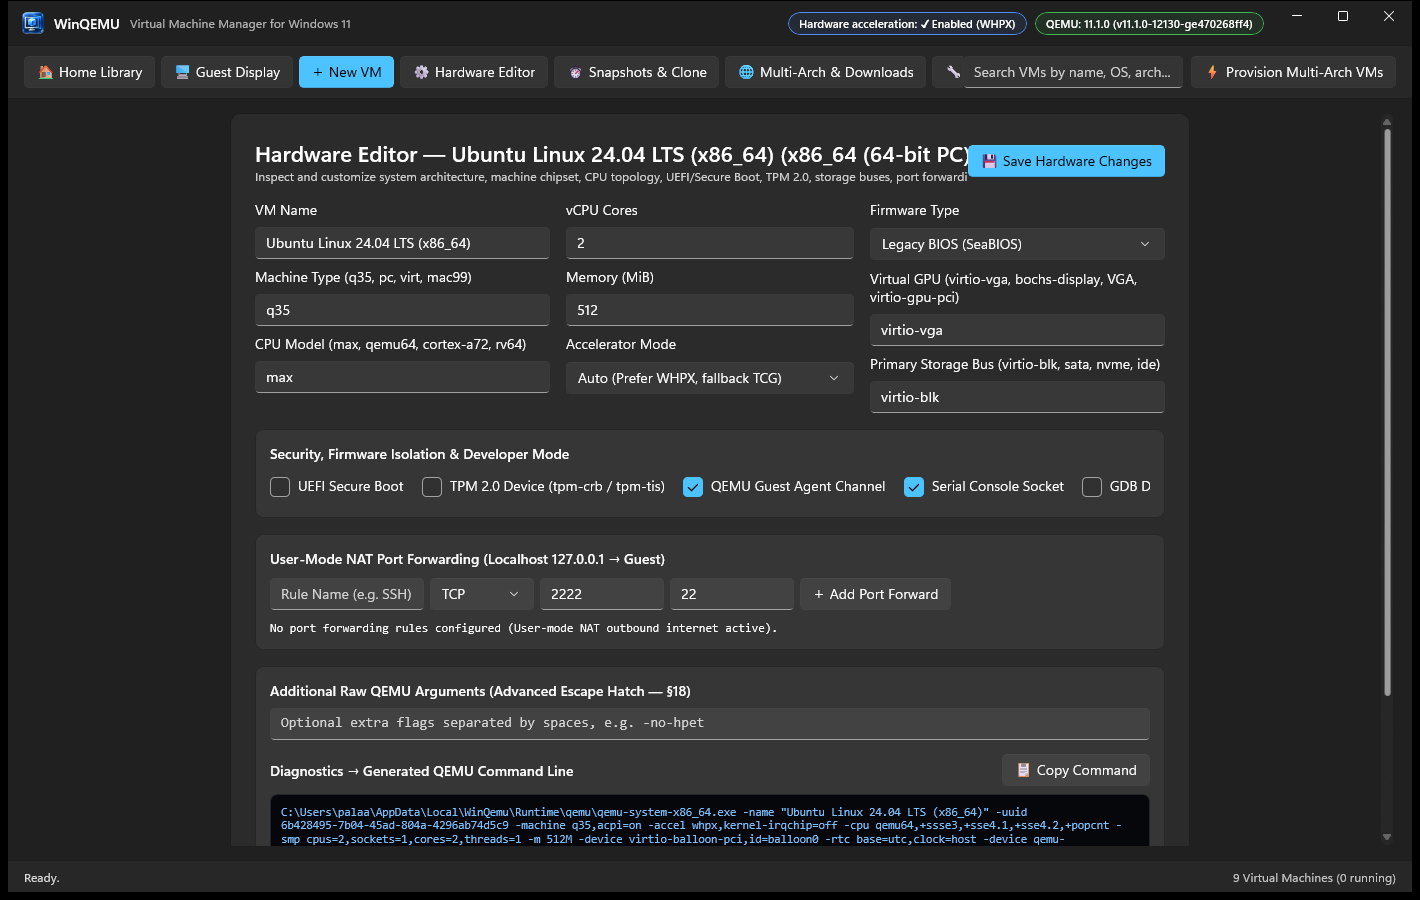
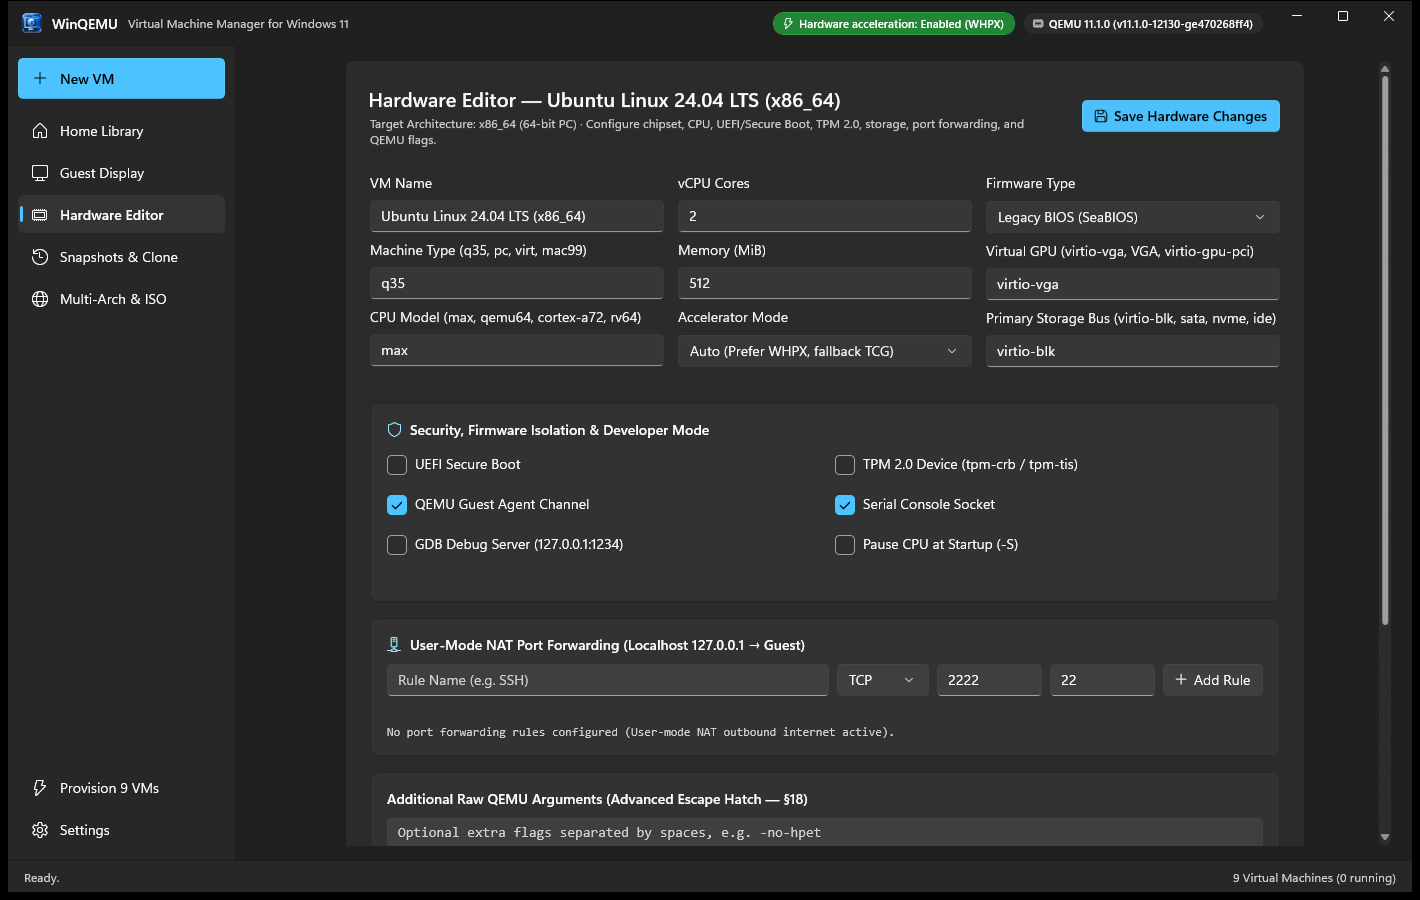
polish: finalize WHPX truthfulness, showcase ordering, QA tour auto-exit, and updated Fluent UI screenshots

diff --git a/src/App/MainWindow.xaml b/src/App/MainWindow.xaml
@@ -1007,19 +1007,19 @@
                 <ScrollViewer x:Name="WizardViewPanel" Visibility="Collapsed">
                     <Border MaxWidth="900"
                             HorizontalAlignment="Stretch"
-                            Padding="24"
+                            Padding="18"
                             CornerRadius="8"
                             Background="{ThemeResource CardBackgroundFillColorDefaultBrush}"
                             BorderBrush="{ThemeResource CardStrokeColorDefaultBrush}"
                             BorderThickness="1">
-                        <StackPanel Spacing="16">
+                        <StackPanel Spacing="10">
                             <StackPanel.ChildrenTransitions>
                                 <TransitionCollection>
                                     <EntranceThemeTransition FromVerticalOffset="10" />
                                 </TransitionCollection>
                             </StackPanel.ChildrenTransitions>
 
-                            <StackPanel Spacing="4">
+                            <StackPanel Spacing="2">
                                 <TextBlock Text="Create a Virtual Machine" Style="{StaticResource SubtitleTextBlockStyle}" />
                                 <TextBlock Text="Pick an installer ISO or choose an operating system preset across x86_64, i386, ARM64, RISC-V 64, or PowerPC 64. WinQEMU configures firmware, storage, networking, and acceleration automatically."
                                            Style="{StaticResource CaptionTextBlockStyle}"
@@ -1028,8 +1028,8 @@
                             </StackPanel>
 
                             <!-- Step 1: ISO Selection & Auto-Recognition (§13, §14) -->
-                            <Border Padding="16" CornerRadius="8" Background="{ThemeResource CardBackgroundFillColorSecondaryBrush}" BorderBrush="{ThemeResource CardStrokeColorDefaultBrush}" BorderThickness="1">
-                                <StackPanel Spacing="10">
+                            <Border Padding="12" CornerRadius="8" Background="{ThemeResource CardBackgroundFillColorSecondaryBrush}" BorderBrush="{ThemeResource CardStrokeColorDefaultBrush}" BorderThickness="1">
+                                <StackPanel Spacing="8">
                                     <StackPanel Orientation="Horizontal" Spacing="8">
                                         <FontIcon FontFamily="Segoe Fluent Icons" Glyph="&#xE958;" FontSize="15" Foreground="{ThemeResource AccentTextFillColorPrimaryBrush}" />
                                         <TextBlock Text="1. Installer Media (Optional — or boot from preset)" Style="{StaticResource BodyStrongTextBlockStyle}" />
@@ -1061,13 +1061,13 @@
                             </Border>
 
                             <!-- Step 2: Operating System & Architecture Preset (§15) -->
-                            <Border Padding="16" CornerRadius="8" Background="{ThemeResource CardBackgroundFillColorSecondaryBrush}" BorderBrush="{ThemeResource CardStrokeColorDefaultBrush}" BorderThickness="1">
-                                <StackPanel Spacing="10">
+                            <Border Padding="12" CornerRadius="8" Background="{ThemeResource CardBackgroundFillColorSecondaryBrush}" BorderBrush="{ThemeResource CardStrokeColorDefaultBrush}" BorderThickness="1">
+                                <StackPanel Spacing="8">
                                     <StackPanel Orientation="Horizontal" Spacing="8">
                                         <FontIcon FontFamily="Segoe Fluent Icons" Glyph="&#xE770;" FontSize="15" Foreground="{ThemeResource AccentTextFillColorPrimaryBrush}" />
                                         <TextBlock Text="2. Operating System &amp; Architecture Preset" Style="{StaticResource BodyStrongTextBlockStyle}" />
                                     </StackPanel>
-                                    <Grid x:Name="WizardPresetNameGrid" ColumnSpacing="14" RowSpacing="10">
+                                    <Grid x:Name="WizardPresetNameGrid" ColumnSpacing="14" RowSpacing="8">
                                         <Grid.ColumnDefinitions>
                                             <ColumnDefinition Width="*" />
                                             <ColumnDefinition Width="*" />
@@ -1104,13 +1104,13 @@
                             </Border>
 
                             <!-- Step 3: Recommended Resources (§16) -->
-                            <Border Padding="16" CornerRadius="8" Background="{ThemeResource CardBackgroundFillColorSecondaryBrush}" BorderBrush="{ThemeResource CardStrokeColorDefaultBrush}" BorderThickness="1">
-                                <StackPanel Spacing="12">
+                            <Border Padding="12" CornerRadius="8" Background="{ThemeResource CardBackgroundFillColorSecondaryBrush}" BorderBrush="{ThemeResource CardStrokeColorDefaultBrush}" BorderThickness="1">
+                                <StackPanel Spacing="8">
                                     <StackPanel Orientation="Horizontal" Spacing="8">
                                         <FontIcon FontFamily="Segoe Fluent Icons" Glyph="&#xE964;" FontSize="15" Foreground="{ThemeResource AccentTextFillColorPrimaryBrush}" />
                                         <TextBlock Text="3. Hardware Resources (Memory, CPU, Disk Size)" Style="{StaticResource BodyStrongTextBlockStyle}" />
                                     </StackPanel>
-                                    <Grid x:Name="WizardResourcesGrid" ColumnSpacing="14" RowSpacing="10">
+                                    <Grid x:Name="WizardResourcesGrid" ColumnSpacing="14" RowSpacing="8">
                                         <Grid.ColumnDefinitions>
                                             <ColumnDefinition Width="*" />
                                             <ColumnDefinition Width="*" />
@@ -1121,15 +1121,15 @@
                                             <RowDefinition Height="Auto" />
                                             <RowDefinition Height="Auto" />
                                         </Grid.RowDefinitions>
-                                        <StackPanel x:Name="WizardRamField" Grid.Row="0" Grid.Column="0" Spacing="4">
+                                        <StackPanel x:Name="WizardRamField" Grid.Row="0" Grid.Column="0" Spacing="2">
                                             <TextBlock x:Name="WizardRamLabel" Text="Memory (MiB) — Recommended: 4096 MiB" Style="{StaticResource CaptionTextBlockStyle}" />
                                             <Slider x:Name="WizardRamSlider" Minimum="256" Maximum="16384" StepFrequency="256" Value="4096" ValueChanged="OnWizardResourceSliderChanged" AutomationProperties.AutomationId="WizardRamSlider" AutomationProperties.Name="Memory Allocation MiB" />
                                         </StackPanel>
-                                        <StackPanel x:Name="WizardCpuField" Grid.Row="0" Grid.Column="1" Spacing="4">
+                                        <StackPanel x:Name="WizardCpuField" Grid.Row="0" Grid.Column="1" Spacing="2">
                                             <TextBlock x:Name="WizardCpuLabel" Text="Virtual CPUs — Recommended: 4" Style="{StaticResource CaptionTextBlockStyle}" />
                                             <Slider x:Name="WizardCpuSlider" Minimum="1" Maximum="16" StepFrequency="1" Value="4" ValueChanged="OnWizardResourceSliderChanged" AutomationProperties.AutomationId="WizardCpuSlider" AutomationProperties.Name="Virtual CPU Cores" />
                                         </StackPanel>
-                                        <StackPanel x:Name="WizardDiskField" Grid.Row="0" Grid.Column="2" Spacing="4">
+                                        <StackPanel x:Name="WizardDiskField" Grid.Row="0" Grid.Column="2" Spacing="2">
                                             <TextBlock x:Name="WizardDiskLabel" Text="Virtual Disk (GiB) — Recommended: 32 GiB" Style="{StaticResource CaptionTextBlockStyle}" />
                                             <Slider x:Name="WizardDiskSlider" Minimum="4" Maximum="256" StepFrequency="4" Value="32" ValueChanged="OnWizardResourceSliderChanged" AutomationProperties.AutomationId="WizardDiskSlider" AutomationProperties.Name="Disk Size GiB" />
                                         </StackPanel>
@@ -1139,12 +1139,12 @@
                             </Border>
 
                             <!-- Step 4: Express Unattended Installation (§37) -->
-                            <Border Padding="16" CornerRadius="8" Background="{ThemeResource CardBackgroundFillColorSecondaryBrush}" BorderBrush="{ThemeResource CardStrokeColorDefaultBrush}" BorderThickness="1">
-                                <StackPanel Spacing="10">
+                            <Border Padding="12" CornerRadius="8" Background="{ThemeResource CardBackgroundFillColorSecondaryBrush}" BorderBrush="{ThemeResource CardStrokeColorDefaultBrush}" BorderThickness="1">
+                                <StackPanel Spacing="8">
                                     <CheckBox x:Name="WizardExpressInstallCheck"
                                               Content="Enable Express Unattended Installation (Cloud-Init / Windows Autounattend seed ISO)"
                                               AutomationProperties.AutomationId="WizardExpressInstallCheck" />
-                                    <Grid x:Name="WizardExpressFieldsGrid" ColumnSpacing="12" RowSpacing="10">
+                                    <Grid x:Name="WizardExpressFieldsGrid" ColumnSpacing="12" RowSpacing="8">
                                         <Grid.ColumnDefinitions>
                                             <ColumnDefinition Width="*" />
                                             <ColumnDefinition Width="*" />
@@ -1768,7 +1768,7 @@
                                             <Grid.ColumnDefinitions>
                                                 <ColumnDefinition Width="Auto" />
                                                 <ColumnDefinition Width="Auto" />
-                                                <ColumnDefinition Width="*" />
+                                                <ColumnDefinition Width="Auto" />
                                             </Grid.ColumnDefinitions>
                                             <Grid.RowDefinitions>
                                                 <RowDefinition Height="Auto" />

diff --git a/src/App/ViewModels/MainViewModel.cs b/src/App/ViewModels/MainViewModel.cs
@@ -58,10 +58,12 @@ public sealed class VmCardItem : INotifyPropertyChanged
     private string _metricsSummary = string.Empty;
     private string? _screenshotPath;
     private BitmapImage? _cachedThumbnail;
+    private bool _hostSupportsWhpx = true;
 
-    public VmCardItem(VirtualMachine vm)
+    public VmCardItem(VirtualMachine vm, bool hostSupportsWhpx = true)
     {
         Vm = vm;
+        _hostSupportsWhpx = hostSupportsWhpx;
         _screenshotPath = vm.Metadata.LastScreenshotPath;
         RefreshStaticSummaries();
     }
@@ -75,7 +77,26 @@ public sealed class VmCardItem : INotifyPropertyChanged
     public string AccentColorHex => Vm.Metadata.AccentColorHex;
     public string ResourceSummary { get; private set; } = string.Empty;
 
+    public bool HostSupportsWhpx
+    {
+        get => _hostSupportsWhpx;
+        set
+        {
+            if (_hostSupportsWhpx != value)
+            {
+                _hostSupportsWhpx = value;
+                OnPropertyChanged();
+                OnPropertyChanged(nameof(UsesWhpxByDefault));
+                OnPropertyChanged(nameof(IsWhpxEffective));
+                OnPropertyChanged(nameof(AcceleratorBadgeText));
+                OnPropertyChanged(nameof(WhpxBadgeVisibility));
+                OnPropertyChanged(nameof(TcgBadgeVisibility));
+            }
+        }
+    }
+
     public bool UsesWhpxByDefault =>
+        HostSupportsWhpx &&
         Vm.Architecture == VmArchitecture.X86_64 &&
         Vm.Accelerator != VmAcceleratorMode.Tcg;
 
@@ -280,6 +301,7 @@ public sealed class MainViewModel : IAsyncDisposable
     public AppSettingsStore SettingsStore => _settingsStore;
 
     public bool IsWhpxWorking => WhpxReport?.Status == WhpxAccelerationStatus.Working;
+    private bool EffectiveHostWhpxEnabled => IsWhpxWorking && Settings.PreferWhpxWhenAvailable;
 
     public async Task InitializeAsync(CancellationToken cancellationToken = default)
     {
@@ -317,6 +339,12 @@ public sealed class MainViewModel : IAsyncDisposable
             RuntimeInfo.QemuSystemX86_64Path,
             x64Caps?.Accelerators,
             cancellationToken);
+
+        var hostWhpx = EffectiveHostWhpxEnabled;
+        foreach (var card in AllVms)
+        {
+            card.HostSupportsWhpx = hostWhpx;
+        }
     }
 
     public async Task<QemuRuntimeInfo> InstallManagedQemuRuntimeAsync(
@@ -343,9 +371,10 @@ public sealed class MainViewModel : IAsyncDisposable
         var loaded = await _vmStore.LoadAllFromLibraryAsync(Settings.VmStorageDirectory, cancellationToken);
 
         AllVms.Clear();
+        var hostWhpx = EffectiveHostWhpxEnabled;
         foreach (var vm in loaded)
         {
-            var card = new VmCardItem(vm);
+            var card = new VmCardItem(vm, hostWhpx);
             var activeSession = _processManager.GetSession(vm.Identity.Id);
             if (activeSession is null && !string.IsNullOrWhiteSpace(vm.DirectoryPath))
             {
@@ -483,7 +512,7 @@ public sealed class MainViewModel : IAsyncDisposable
         FirmwareManager.PrepareFirmwareForVm(vm, RuntimeInfo);
 
         await _vmStore.SaveAsync(vm, vmDir, cancellationToken);
-        var card = new VmCardItem(vm);
+        var card = new VmCardItem(vm, EffectiveHostWhpxEnabled);
         AllVms.Insert(0, card);
         ApplyFilter();
         SelectedVm = card;
@@ -571,7 +600,7 @@ public sealed class MainViewModel : IAsyncDisposable
                 VmArchitecture.X86_64,
                 "Microsoft Windows [Version 10.0.26100.3194] — Windows 11 Pro (x86_64)",
                 "Windows Emergency Management / Recovery Command Console · Q35 + UEFI + TPM 2.0",
-                "x86_64 (64-bit PC) · WHPX Hardware Accelerated · AHCI SATA + Intel e1000e Gigabit",
+                "x86_64 (64-bit PC) · Q35 · AHCI SATA + Intel e1000e Gigabit",
                 "PS C:\\Windows\\System32> Get-ComputerInfo | Select OsName, OsArchitecture -> Windows 11 Pro (64-bit)",
                 0x1F, // Classic Windows Blue console
                 false
@@ -601,21 +630,44 @@ public sealed class MainViewModel : IAsyncDisposable
         };
 
         var createdCards = new List<VmCardItem>();
+        var hostWhpxEnabled = EffectiveHostWhpxEnabled;
         foreach (var item in specs)
         {
             var existing = AllVms.FirstOrDefault(v =>
                 string.Equals(v.Name, item.Name, StringComparison.OrdinalIgnoreCase));
+            var useWhpxBanner = item.Arch == VmArchitecture.X86_64 &&
+                                hostWhpxEnabled &&
+                                existing?.Vm.Accelerator != VmAcceleratorMode.Tcg;
+            var hypervisorDescription = useWhpxBanner
+                ? "Windows Hypervisor Platform (WHPX Hardware Accelerated)"
+                : "QEMU TCG Dynamic Binary Translation (Multi-Arch Emulation)";
+
             if (existing is not null)
             {
+                existing.HostSupportsWhpx = hostWhpxEnabled;
+                if (!existing.Vm.Identity.Tags.Contains("showcase-boot-test", StringComparer.OrdinalIgnoreCase))
+                {
+                    existing.Vm.Identity.Tags.Add("showcase-boot-test");
+                    if (!string.IsNullOrWhiteSpace(existing.Vm.DirectoryPath))
+                    {
+                        await _vmStore.SaveAsync(existing.Vm, existing.Vm.DirectoryPath, cancellationToken);
+                    }
+                }
+
                 if (!existing.IsRunningOrPaused &&
-                    !string.IsNullOrWhiteSpace(existing.Vm.DirectoryPath) &&
-                    existing.Vm.Identity.Tags.Contains("showcase-boot-test", StringComparer.OrdinalIgnoreCase))
+                    !string.IsNullOrWhiteSpace(existing.Vm.DirectoryPath))
                 {
                     var existingIsoPath = Path.Combine(existing.Vm.DirectoryPath, VmDirectoryLayout.DisksSubdir, "boot-media.iso");
                     if (File.Exists(existingIsoPath))
                     {
                         var isoBytes = await File.ReadAllBytesAsync(existingIsoPath, cancellationToken);
-                        if (isoBytes.AsSpan().IndexOf("WHPX / TCG"u8) >= 0)
+                        var isoSpan = isoBytes.AsSpan();
+                        var expectedMarker = useWhpxBanner
+                            ? "WHPX Hardware Accelerated"u8
+                            : "QEMU TCG Dynamic Binary Translation"u8;
+                        if (isoSpan.IndexOf("WHPX / TCG"u8) >= 0 ||
+                            isoSpan.IndexOf("QEMU / WinQEMU Frontend Native Runtime"u8) >= 0 ||
+                            isoSpan.IndexOf(expectedMarker) < 0)
                         {
                             MultiArchBootImageFactory.CreateBootableElToritoIso(
                                 existingIsoPath,
@@ -624,7 +676,8 @@ public sealed class MainViewModel : IAsyncDisposable
                                 $"{item.Subtitle} [Synthetic Boot Validation Media]",
                                 item.KernelInfo,
                                 item.Prompt,
-                                item.ColorAttr);
+                                item.ColorAttr,
+                                hypervisorDescription);
 
                             var qemuImgClient = (RuntimeInfo.QemuImgPath is not null && File.Exists(RuntimeInfo.QemuImgPath))
                                 ? new QemuImgClient(RuntimeInfo.QemuImgPath)
@@ -639,7 +692,8 @@ public sealed class MainViewModel : IAsyncDisposable
                                     $"{item.Subtitle} [Synthetic Boot Validation Media]",
                                     item.KernelInfo,
                                     item.Prompt,
-                                    item.ColorAttr);
+                                    item.ColorAttr,
+                                    hypervisorDescription);
                                 var existingDisk = existing.Vm.Storage.FirstOrDefault(d => d.Media == "disk");
                                 if (existingDisk is not null && qemuImgClient is not null &&
                                     string.Equals(existingDisk.Format, "qcow2", StringComparison.OrdinalIgnoreCase))
@@ -670,7 +724,8 @@ public sealed class MainViewModel : IAsyncDisposable
                 $"{item.Subtitle} [Synthetic Boot Validation Media]",
                 item.KernelInfo,
                 item.Prompt,
-                item.ColorAttr);
+                item.ColorAttr,
+                hypervisorDescription);
 
             MultiArchBootImageFactory.CreateBootableElToritoIso(
                 isoPath,
@@ -679,7 +734,8 @@ public sealed class MainViewModel : IAsyncDisposable
                 $"{item.Subtitle} [Synthetic Boot Validation Media]",
                 item.KernelInfo,
                 item.Prompt,
-                item.ColorAttr);
+                item.ColorAttr,
+                hypervisorDescription);
 
             var vm = GuestPresetCatalog.CreateVmFromPreset(
                 preset,
@@ -755,13 +811,24 @@ public sealed class MainViewModel : IAsyncDisposable
             FirmwareManager.PrepareFirmwareForVm(vm, RuntimeInfo);
             await _vmStore.SaveAsync(vm, vmDir, cancellationToken);
 
-            var card = new VmCardItem(vm);
+            var card = new VmCardItem(vm, hostWhpxEnabled);
             AllVms.Add(card);
             createdCards.Add(card);
         }
 
+        var nonShowcase = AllVms.Where(c => !createdCards.Contains(c)).ToList();
+        AllVms.Clear();
+        foreach (var c in createdCards)
+        {
+            AllVms.Add(c);
+        }
+        foreach (var c in nonShowcase)
+        {
+            AllVms.Add(c);
+        }
+
         ApplyFilter();
-        SelectedVm ??= FilteredVms.FirstOrDefault();
+        SelectedVm = createdCards.FirstOrDefault() ?? FilteredVms.FirstOrDefault();
         return createdCards;
     }
 

diff --git a/src/App/MainWindow.xaml.cs b/src/App/MainWindow.xaml.cs
@@ -498,7 +498,7 @@ public sealed partial class MainWindow : Window
             Grid.SetColumn(SettingsEnableWhpxBtn, 0);
             Grid.SetColumnSpan(SettingsEnableWhpxBtn, 3);
         }
-        else if (width < 980 || width >= 1280)
+        else if (width < 980 || width >= 1520)
         {
             Grid.SetRow(SettingsReprobeBtn, 0);
             Grid.SetColumn(SettingsReprobeBtn, 0);
@@ -520,7 +520,7 @@ public sealed partial class MainWindow : Window
             Grid.SetColumnSpan(InstallManagedQemuBtn, 1);
             Grid.SetRow(SettingsEnableWhpxBtn, 1);
             Grid.SetColumn(SettingsEnableWhpxBtn, 0);
-            Grid.SetColumnSpan(SettingsEnableWhpxBtn, 1);
+            Grid.SetColumnSpan(SettingsEnableWhpxBtn, 2);
         }
     }
 
@@ -774,9 +774,7 @@ public sealed partial class MainWindow : Window
 
     private void UpdateConsoleToolbarForSelectedVm(VmCardItem card)
     {
-        var isWhpxActive = card.IsRunningOrPaused
-            ? string.Equals(card.ActiveAccelerator, "whpx", StringComparison.OrdinalIgnoreCase)
-            : card.UsesWhpxByDefault && _viewModel.IsWhpxWorking;
+        var isWhpxActive = card.IsWhpxEffective;
 
         var compactBadge = MainRootGrid.ActualWidth > 0 && MainRootGrid.ActualWidth < 680;
         if (isWhpxActive)
@@ -2412,21 +2410,17 @@ public sealed partial class MainWindow : Window
             }
             catch { }
         }
+        finally
+        {
+            _allowCloseConfirmed = true;
+            Close();
+        }
     }
 
     private async Task BootAndCaptureAllShowcaseVmsAsync(string outputDir)
     {
         Directory.CreateDirectory(outputDir);
-        var cards = _viewModel.AllVms
-            .Where(c => c.Vm.Identity.Tags.Contains("showcase-boot-test", StringComparer.OrdinalIgnoreCase))
-            .ToList();
-        if (cards.Count == 0)
-        {
-            await _viewModel.ProvisionMultiArchShowcaseVmsAsync();
-            cards = _viewModel.AllVms
-                .Where(c => c.Vm.Identity.Tags.Contains("showcase-boot-test", StringComparer.OrdinalIgnoreCase))
-                .ToList();
-        }
+        var cards = (await _viewModel.ProvisionMultiArchShowcaseVmsAsync()).ToList();
 
         var previousDrawerOpen = ToggleDevDrawerBtn.IsChecked == true;
         SetDevDrawerOpen(true);
